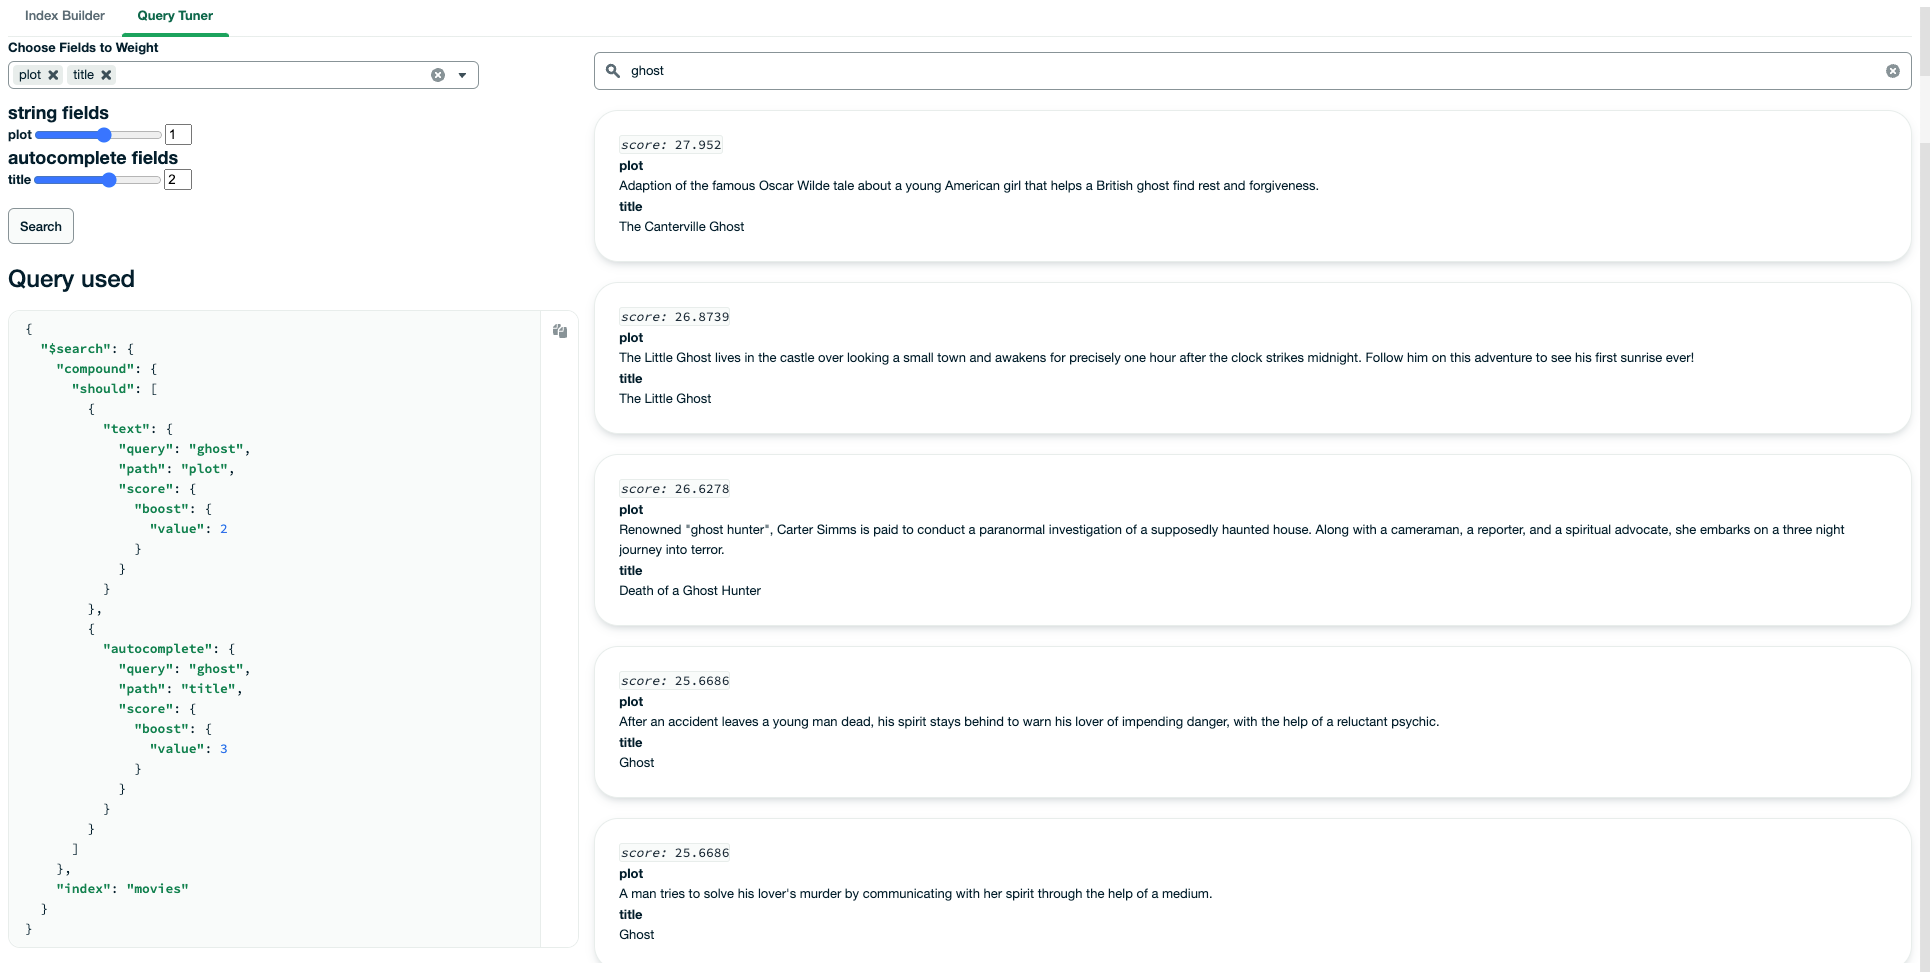
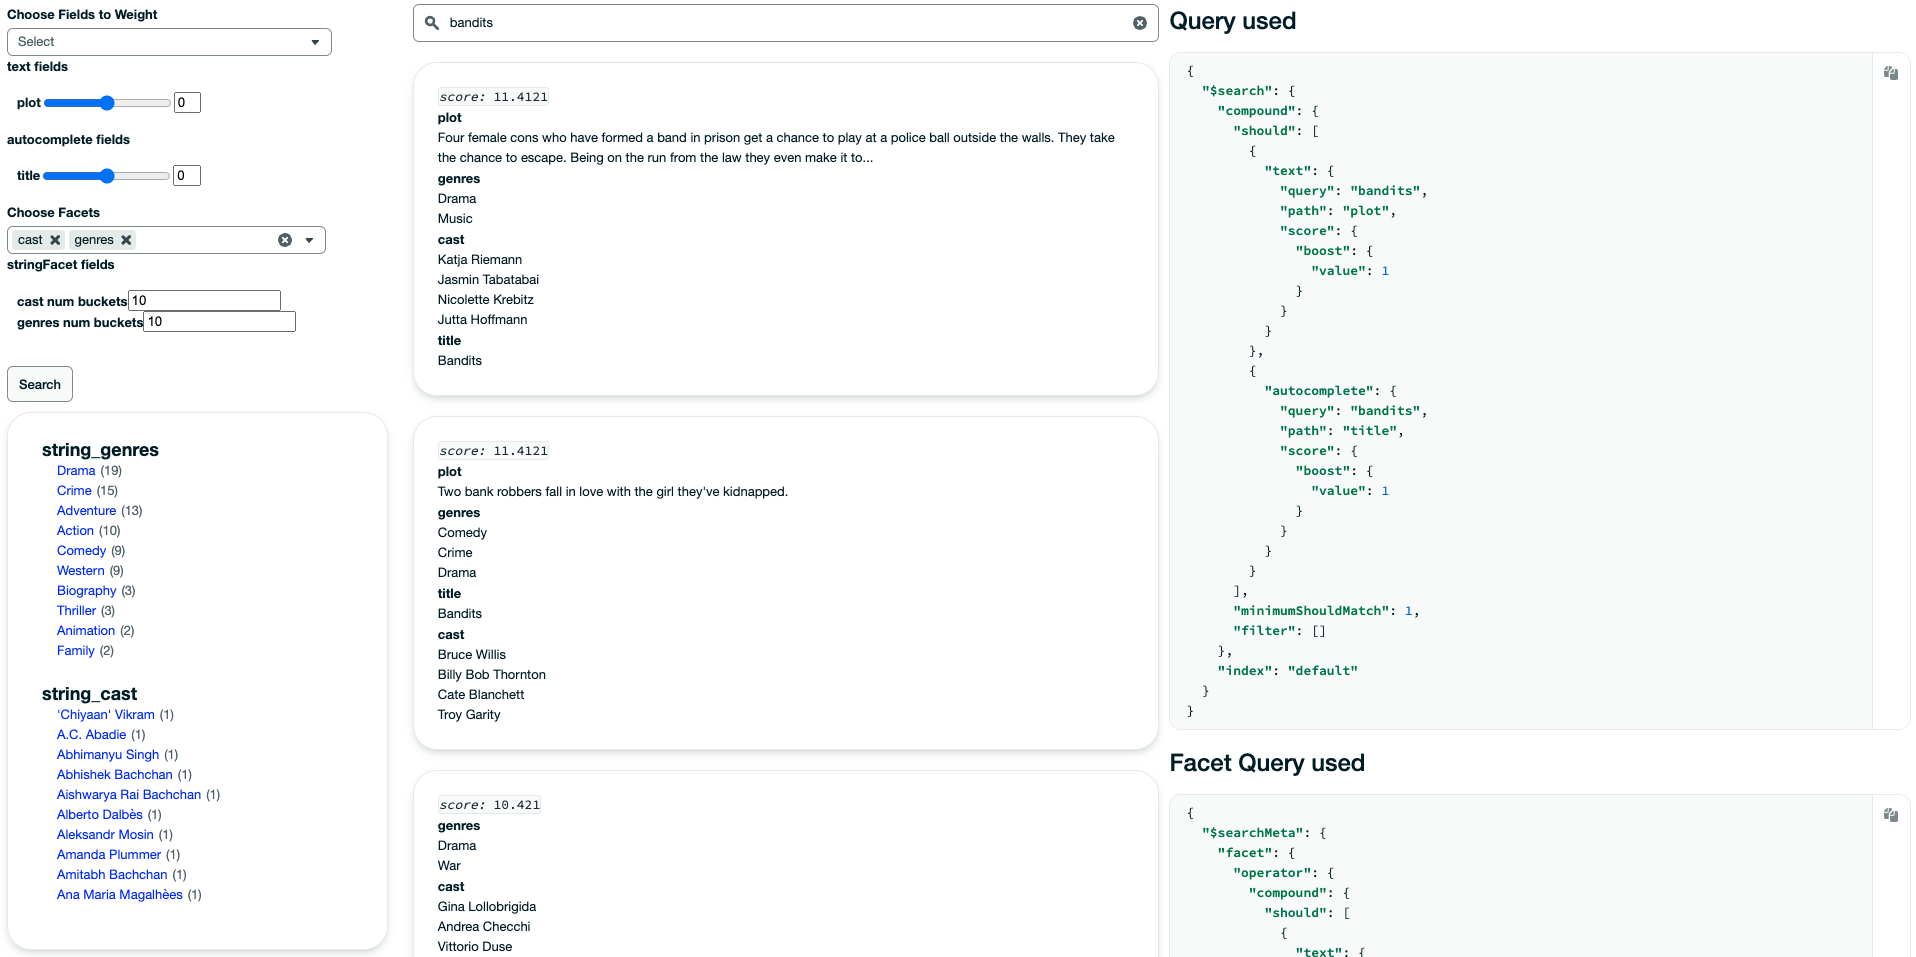
Update README

diff --git a/README.md b/README.md
@@ -59,6 +59,8 @@ Once the index defintion has been built up the user can click 'deploy'. This cre
 ### Query Tuner
 When an existing index is selected (or after a new index is built) the Query Tuner allows the user to create search queries by picking fields to search across and giving them different 'weights'. This shows the developer how to create a search query and how to apply simple boosting rules. The tuner parses the index defintion to find out which fields can be suggested for 'string' and for 'autocomplete' queries.
 
+The user can also select what facets to display and use them for filtering. Only string facets are currently supported.
+
 ![pick fields](https://github.com/JohnGUnderwood/atlas-search-tuner/tree/main/screenshots/tuner1.png) ![results](screenshot/tuner2.png)
 
-The user can now copy the generated query that is displayed in the UI and use it in their application or for further development in a tool such as Compass.
+The user can now copy the generated queries that are displayed in the UI and use it in their application or for further development in a tool such as Compass.
